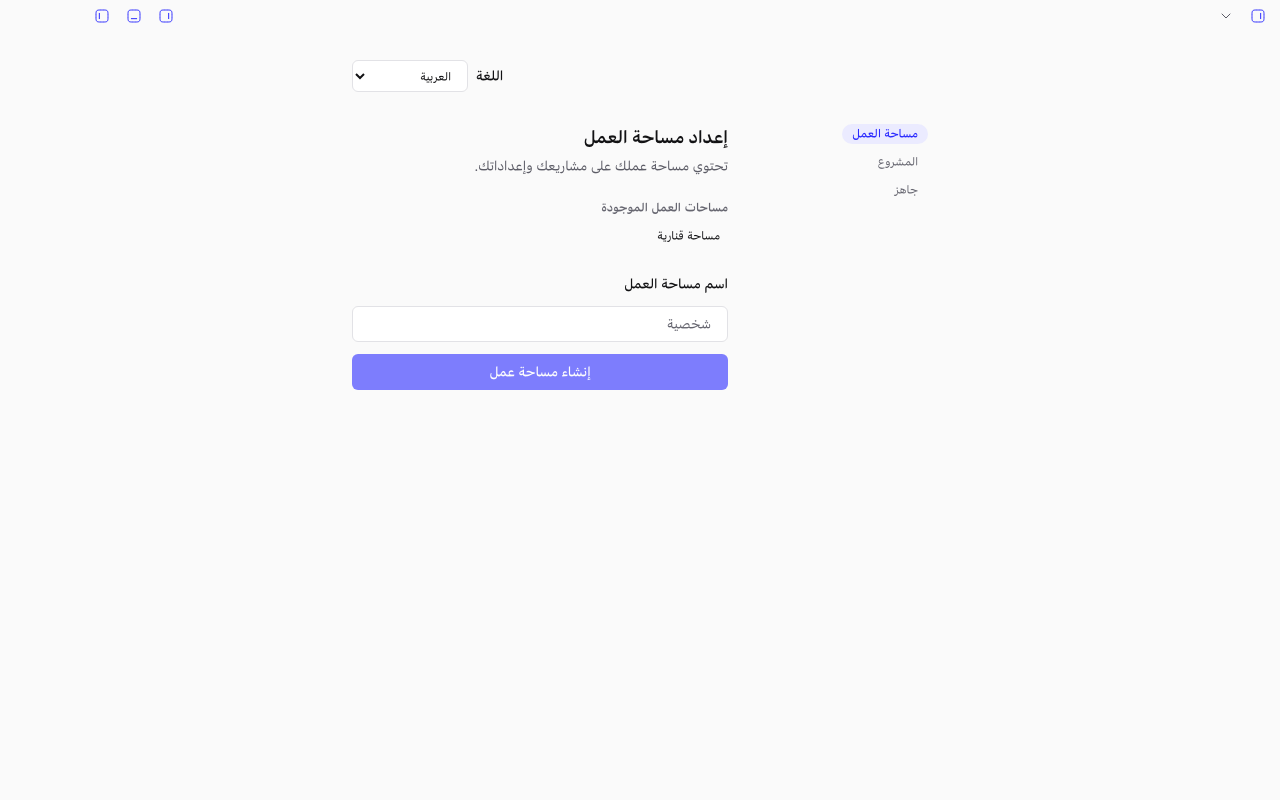
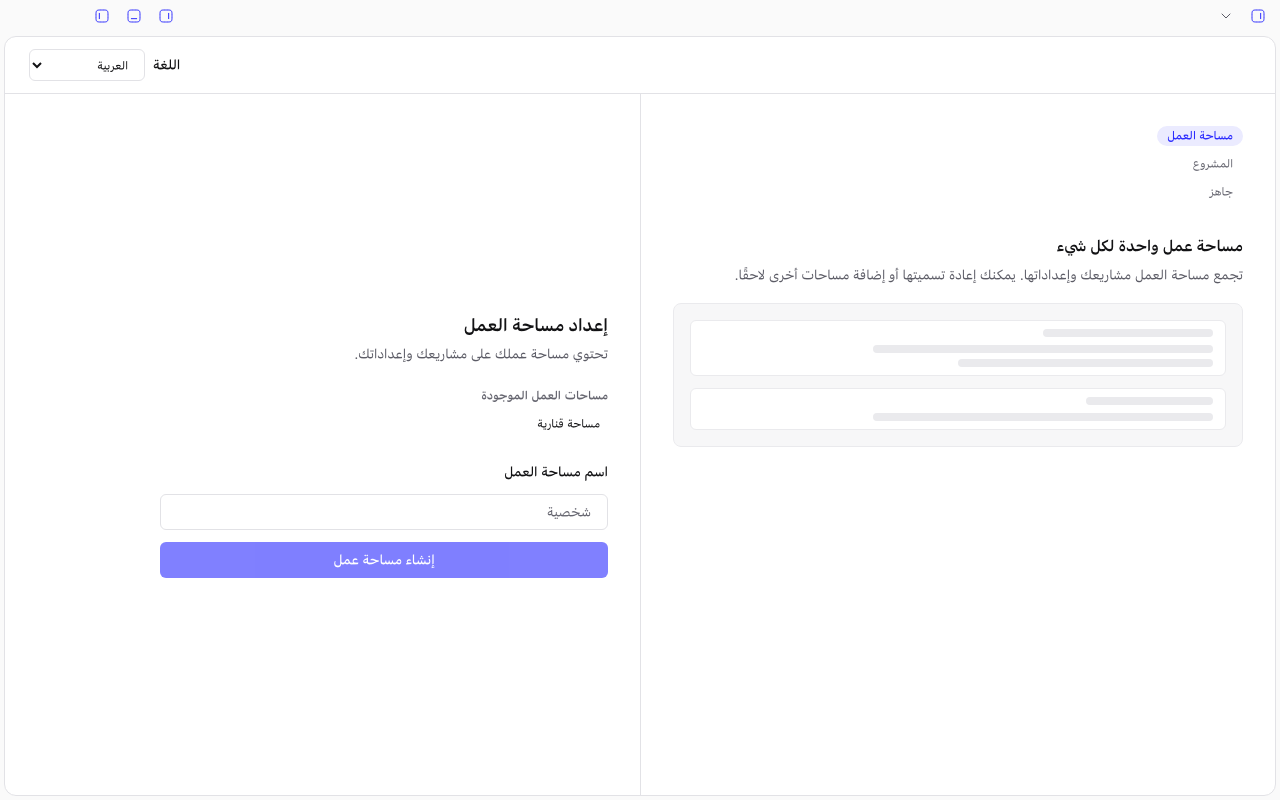
docs(onboarding): round-4 evidence — full-context layout captures + reviewer native walk
- All ten captures regenerated against the round-4 layout: guide column
  (rail + showcase + preview) beside the form, stacked below md, RTL
  mirrored; all automated assertions still pass (no mount dispatch,
  language persistence, retry recovery, no overflow at 700px).
- Report: round-4 section, updated capture table, gate counts (553 tests,
  19 journey), reviewer-performed native fresh-setup walk recorded as
  partial native walk evidence (human observation, screenshots held by
  the reviewer); remaining native scenarios listed with next actions.

diff --git a/docs/reports/onboarding-01-verification.md b/docs/reports/onboarding-01-verification.md
@@ -11,14 +11,15 @@ throughout; no user content, secrets, or raw app-data paths.
 - `9387911` / `22a5e28` — evidence reports + screenshots.
 - Reviewer round 2 — desktop side-rail layout, journey-header language selector, fail-closed storage readiness, architecture analysis.
 - Reviewer round 3 — `c892697` behavior-preserving dependency repair (provisioning leaf feature, ownership delimitation, shared helpers, barrel-workaround removal); follow-up evidence commit adds the readiness-recheck regression and the native compile/launch record below.
+- Reviewer round 4 — `e034e62` (this revision) — full-context two-column journey page: the route renders the journey inside the shell's `Context` card (app default layout) and the journey splits into a guide column (step rail + per-step showcase + decorative preview) and a form column; showcase copy added in all four locales; guide-column test added.
 
 ## Gate results (macOS arm64, this machine)
 
 | Gate | Result |
 |------|--------|
 | `pnpm check` (format:check, lint, typecheck, test, magic-values ×2, deny-exceptions ×2) | Pass, exit 0 |
-| Full vitest suite | **46 test files / 552 tests passed** |
-| Focused: `features/onboarding/onboarding.test.tsx` | 18/18 passed (incl. round-3 regression) |
+| Full vitest suite | **46 test files / 553 tests passed** |
+| Focused: `features/onboarding/onboarding.test.tsx` | 19/19 passed (incl. round-3 regression, round-4 guide-column test) |
 | Focused: `features/provisioning/provisioning.test.tsx` (frozen-locale retry; moved, unchanged) | Passed |
 | `routes-migration.test.ts`, localization 4-locale coverage (`onboarding.storageUnavailable` in en/ar/ru/zh-CN) | Passed |
 | Native: `cargo build -p adham-desktop` | **Pass**, exit 0 (see Native verification) |
@@ -148,7 +149,39 @@ edges that remain are one-directional and do not create module cycles:
 `workspace-selection/selection-journey.test.tsx` render `ConversationPanel`
 as integration coverage (tests are never imported by runtime code).
 
-## Visual review — browser-shimmed captures (NOT native proof)
+## Reviewer round 4 — full-context page (this revision)
+
+The reviewer walked the journey natively (fresh setup → create workspace →
+create project → ready → Open Adham on macOS, all four steps captured in
+their own screenshots) and confirmed the business logic works. Layout
+feedback: the journey was a narrow centered island; it must be a
+**full-context page** inside the app's default layout, two full columns —
+one for the showcases/step guides, one for the input form.
+
+Implemented in `e034e62`:
+
+- **Shell integration** — `routes/index.tsx` now renders the journey inside
+  the shell's `Context` card, so onboarding occupies the app's content
+  region like any other page. This also removes the invalid nested `<main>`
+  landmark (the journey root is a `div`; the Shell keeps the `main`).
+- **Two full-width columns** — a guide column (vertical `StepRail` +
+  per-step `StepShowcase` copy + a static, non-textual `ShowcaseMock`
+  preview) beside the form column (the existing step forms, unchanged).
+  Below `md` the columns stack (guide first, form second) and the whole
+  page scrolls; at `md`+ each column scrolls internally. The divider is a
+  logical border, so RTL mirrors correctly.
+- **Guide copy** — six new keys (`guideWorkspace/guideProject/guideReady`,
+  title + body) in all four locales, complementary to (not duplicating)
+  the form copy. The decorative preview is pure geometry with no text, so
+  it needs no translation and cannot be mistaken for data.
+- **Header** — the journey header row keeps the compact language selector,
+  top-right, available before anything is created.
+- New journey test `renders the guide column beside the form column`
+  asserts showcase copy, step rail, and form field coexist.
+
+Model, copy of record, storage guards, and frozen-identity semantics are
+untouched; this is a presentation-layer revision.
+
 
 Method: vite dev server (port 11111) driven by Playwright/Chromium with
 `window.__TAURI_INTERNALS__.invoke` shimmed to a synthetic canary backend
@@ -158,16 +191,16 @@ follows the amendment's textual spec. Captures in `docs/reports/evidence/`:
 
 | State | File | Result |
 |-------|------|--------|
-| Loading / checking | `onboarding-01-loading.png` | "Checking your setup…" with step rail |
-| Workspace step (existing + create, desktop side rail) | `onboarding-01-workspace-step.png` | Two-column: vertical rail + content; header language selector |
+| Loading / checking | `onboarding-01-loading.png` | "Checking your setup…" inside the app Context card |
+| Workspace step (existing + create, full-context page) | `onboarding-01-workspace-step.png` | Two full columns: guide (rail + "One workspace for everything" showcase + preview) \| form; header language selector |
 | Focus / keyboard | `onboarding-01-focus-keyboard.png` | Tab reaches existing-workspace entry; Enter selects; Enter in name field submits |
-| Project step | `onboarding-01-project-step.png` | Target-workspace card, existing project list, create form |
-| Ready step | `onboarding-01-ready-step.png` | Confirmed scope summary, "Open Adham" |
+| Project step | `onboarding-01-project-step.png` | Guide showcase swaps to "Projects keep their own storage" (two-card isolation preview); target-workspace card, existing project list, create form |
+| Ready step | `onboarding-01-ready-step.png` | Guide showcase "You're set to start"; confirmed scope summary, "Open Adham" |
 | Error + retry | `onboarding-01-error-retry.png` | `role=alert` + Retry; retry recovers |
-| Storage degraded | `onboarding-01-storage-degraded.png` | Blocker message + Retry |
+| Storage degraded | `onboarding-01-storage-degraded.png` | Blocker message + Retry in the form column; guide column stays visible |
 | Storage unavailable (failed read) | `onboarding-01-storage-unavailable.png` | Unavailable blocker, no mutation controls; Retry recovers |
-| Arabic RTL | `onboarding-01-arabic-rtl.png` | Full RTL mirroring incl. side rail, Arabic copy |
-| Narrow 700 px (rail collapsed) | `onboarding-01-narrow-700px.png` | Rail collapses above content; no horizontal overflow |
+| Arabic RTL | `onboarding-01-arabic-rtl.png` | Full RTL mirroring: guide column right, form left, Arabic showcase copy |
+| Narrow 700 px (columns stacked) | `onboarding-01-narrow-700px.png` | Columns stack (guide above form); no horizontal overflow |
 
 Automated assertions in the same run: no create/select dispatch on mount;
 language switch to Arabic on the first screen dispatches nothing and survives
@@ -196,10 +229,12 @@ messages.
 | Frozen request identity survives a language switch mid-uncertain-retry | `OnboardingJourney` test |
 | Retry → checking: all three mutation methods dispatch nothing while readiness re-read is pending (`blocker === null` ≠ safe to proceed); reopen only after explicit ready | `useOnboarding` regression test (round 3) |
 | Step rail marks and advances the current step | `OnboardingJourney` test |
+| Guide column (showcase copy, rail, form) renders together | `OnboardingJourney` test (round 4) |
 
 ## Real-backend native verification — macOS compile + launch attempted, PASSED
 
-Attempted on the available Mac at the round-3 head (this revision):
+Attempted on the available Mac at the round-3 head; the round-4 revision
+(`e034e62`) changed frontend files only, so this record carries over:
 
 | Check | Command | Result |
 |-------|---------|--------|
@@ -214,13 +249,14 @@ Per-platform status after this attempt:
 
 | Platform | Compile + launch | 7-scenario native walk | Next action for the walk |
 |----------|------------------|------------------------|--------------------------|
-| macOS (arm64) | **Verified this revision** (above) | Not tested | Run `pnpm tauri dev` on this Mac and walk: fresh setup, relaunch (resume), kill mid-create + relaunch (frozen-identity replay), degraded/unavailable storage blockers, restart persistence, duplicate-creation check |
+| macOS (arm64) | **Verified this revision** (above) | **Partially tested** — the reviewer walked fresh setup natively (fresh DB → create workspace → create project → ready → Open Adham; four native screenshots + confirmation that workspace/project exist with no session) | Walk the remaining scenarios natively: relaunch mid-setup (resume), kill mid-create + relaunch (frozen-identity replay), degraded/unavailable storage blockers, restart persistence, duplicate-creation check |
 | Windows (x64) | Not tested | Not tested | Same walk on a Windows host with MSVC toolchain via `pnpm tauri dev` |
 | Linux (declared target) | Not tested | Not tested | Same walk on a Linux host with webkit2gtk via `pnpm tauri dev` |
 
-What the native walk must still show: fresh setup, existing setup,
-interruption/relaunch, failed-read recovery, restart persistence, no
-duplicate workspace/project/session creation, no stale-scope sending. The
+What the native walk must still show: fresh setup (**done by the reviewer
+natively**, human observation at the round-3 head; screenshots held by the
+reviewer), relaunch/interruption, failed-read recovery, restart persistence,
+no duplicate workspace/project/session creation, no stale-scope sending. The
 first five have automated analogues (jsdom, injected backends);
 duplicate-creation and stale-scope protection are covered by frozen-identity
 unit tests but **not** by a native end-to-end run. Browser mocks do not
@@ -228,22 +264,27 @@ substitute for this.
 
 ## Copy and interaction review
 
-- Copy limited to the amendment; new `storageUnavailable` message added for
-  the fail-closed blocker; all four locales covered by the parity test.
+- Copy limited to the amendment plus the round-4 guide copy; new
+  `storageUnavailable` message added for the fail-closed blocker; all four
+  locales covered by the parity test. The six guide keys
+  (`guideWorkspace/guideProject/guideReady` title+body) are complementary
+  to the form copy, and the decorative preview carries no text at all.
 - Optional settings stay outside onboarding: the only in-journey setting is
   the compact language selector (now in the journey header, per review);
   theme and everything else remain in Settings.
 - Focus/keyboard: Tab reaches journey controls, Enter selects and submits;
   `aria-current="step"`, `aria-pressed`, `role="alert"`, `aria-busy` in place.
-- Scrolling/resize: rail collapses below `md`; 700×760 has no horizontal
-  overflow; step content `max-w-md`, journey region scrolls internally.
+- Scrolling/resize: columns stack below `md` (guide above form) and the
+  page scrolls; at `md`+ each column scrolls internally; 700×760 has no
+  horizontal overflow; form content `max-w-md`.
 - Language persistence: header switch sets `document lang/dir` (RTL for
   Arabic) and survives reload — verified in the shimmed run.
 
 ## Remaining not tested
 
-- Native 7-scenario onboarding walk on any OS (macOS compile + launch now
-  verified; see matrix above).
+- Native 7-scenario onboarding walk: only the fresh-setup scenario has been
+  walked natively (by the reviewer); the rest of the matrix above still
+  applies.
 - Windows/Linux compile and launch.
 - Screen-reader session (NVDA/VoiceOver) — semantics asserted in DOM only.
 - Touch-only input paths.
